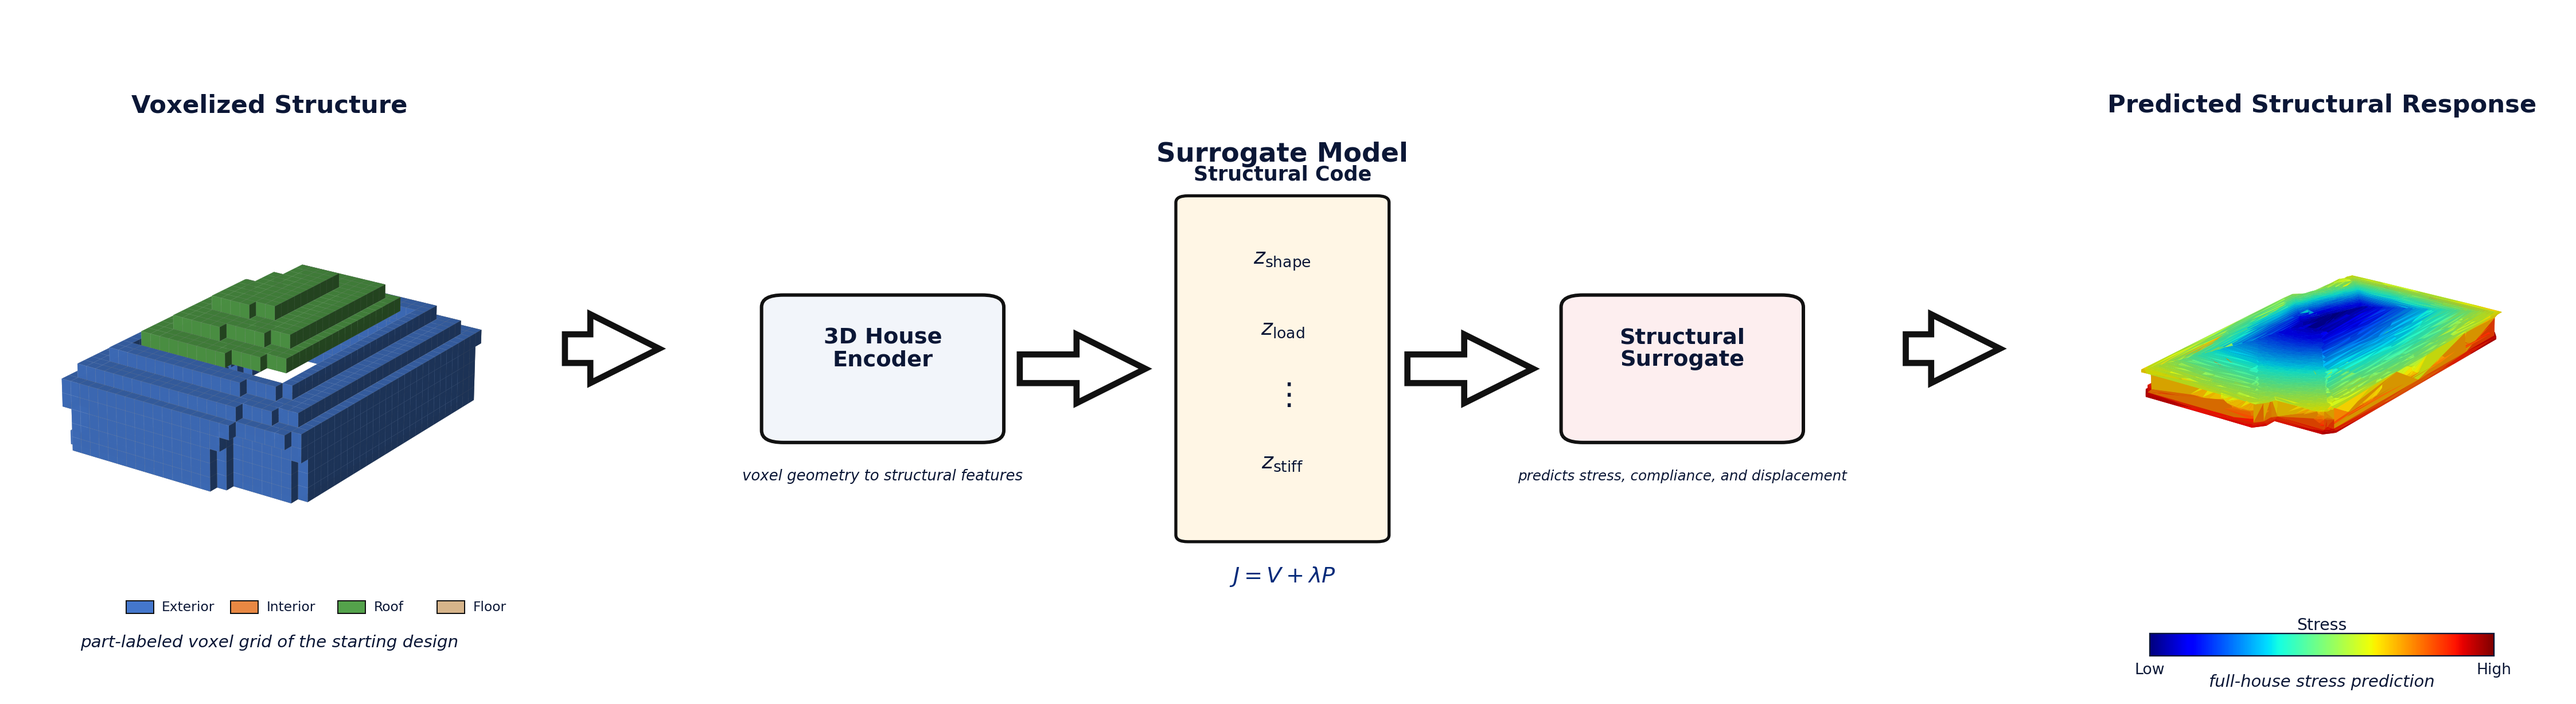
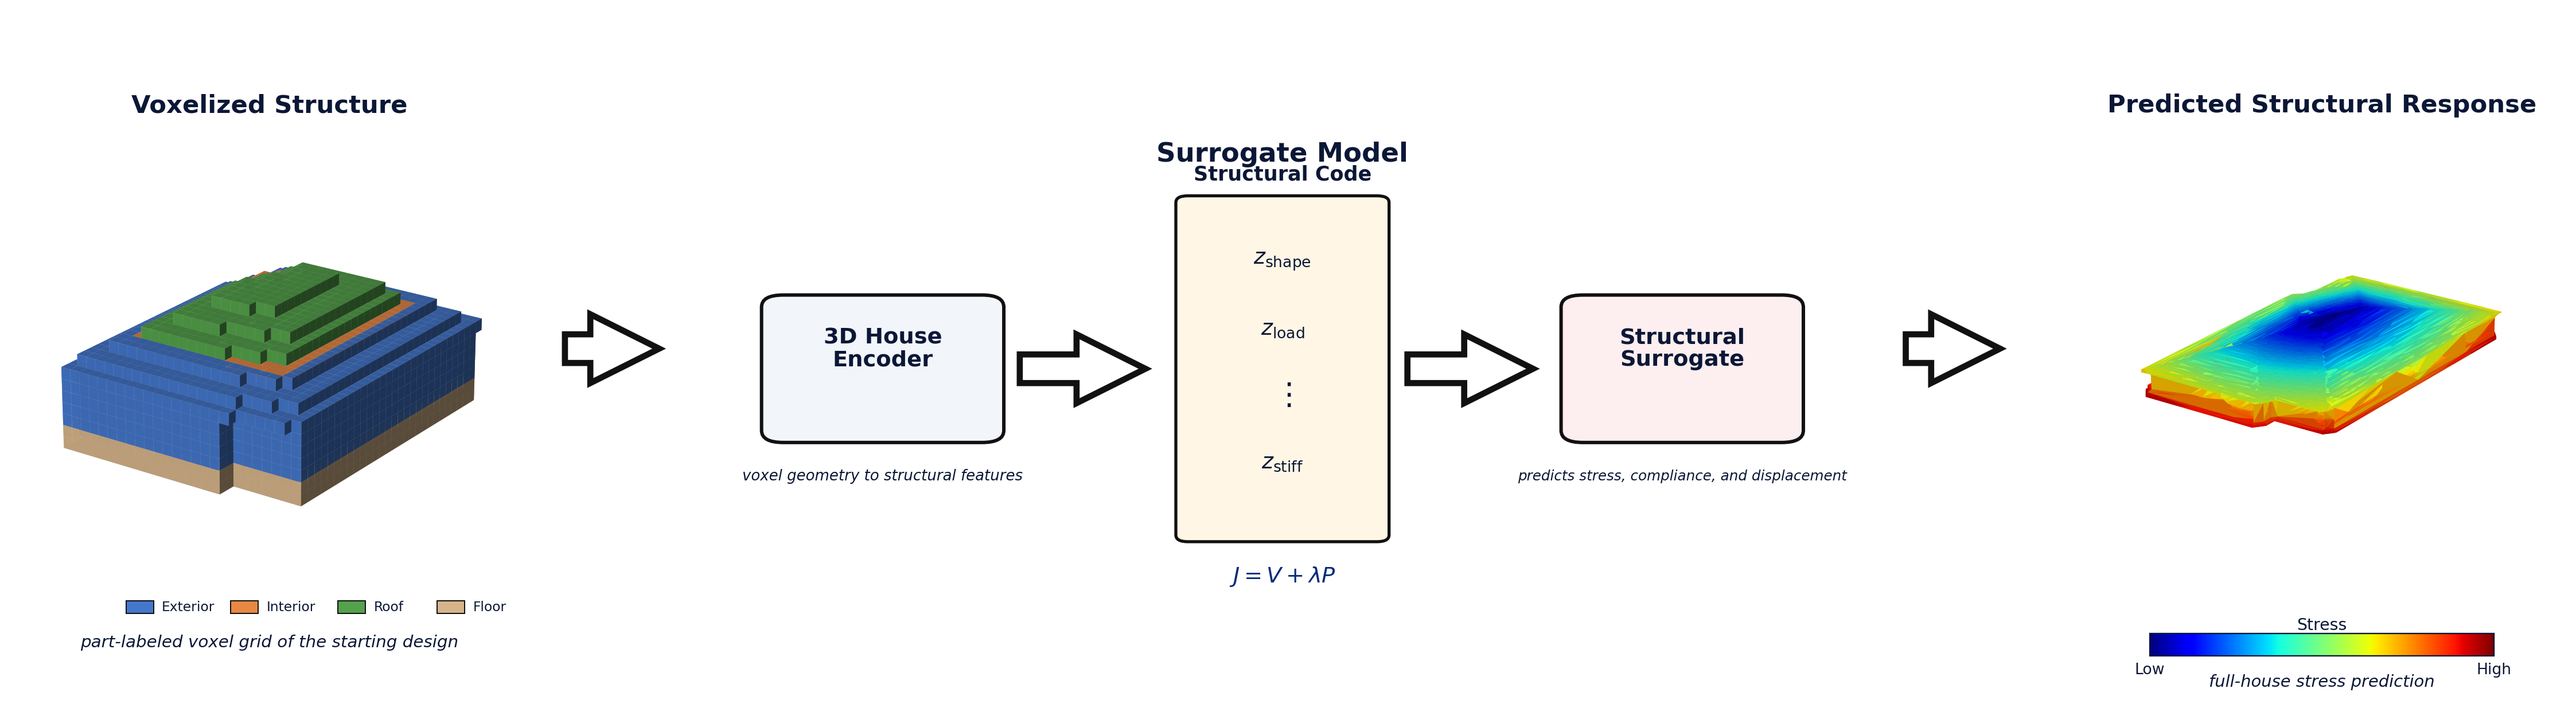
problem framing: fill voxel mass and unify arrows

Changed region(s): [[0.0, 0.4023, 0.187, 0.7117], [0.0623, 0.4023, 0.0935, 0.4642], [0.0935, 0.3713, 0.1247, 0.4023]]

diff --git a/generate_problem_framing.py b/generate_problem_framing.py
@@ -45,6 +45,15 @@ def render_voxelized_house(ax3d, mesh_path, pitch_div=28, elev=24, azim=-55):
         pass
     filled = np.asarray(vox.matrix, dtype=bool)
 
+    # Make the conceptual voxel thumbnail read as a solid house mass with no open shaft.
+    solid = filled.copy()
+    for ix in range(solid.shape[0]):
+        for iy in range(solid.shape[1]):
+            z_idx = np.flatnonzero(filled[ix, iy, :])
+            if z_idx.size:
+                solid[ix, iy, z_idx.min():z_idx.max() + 1] = True
+    filled = solid
+
     sx, sy, sz = filled.shape
     facecolors = np.zeros(filled.shape + (4,), dtype=float)
     edgecolors = np.zeros_like(facecolors)
@@ -72,8 +81,7 @@ def render_voxelized_house(ax3d, mesh_path, pitch_div=28, elev=24, azim=-55):
     exposed[:, :, 1:] |= filled[:, :, 1:] & ~filled[:, :, :-1]
     exposed[:, :, :-1] |= filled[:, :, :-1] & ~filled[:, :, 1:]
 
-    # Avoid seeing interior walls or floor slab through the shell in the conceptual thumbnail.
-    visible = exposed & ~interior_mask & ~slab_mask
+    visible = exposed
 
     def apply_color(mask, hex_color, alpha=0.98):
         rgb = mcolors.to_rgb(hex_color)
@@ -367,7 +375,14 @@ ax_mid.text(0.17, 0.50, "3D House\nEncoder",
 ax_mid.text(0.17, 0.31, "voxel geometry to structural features",
             ha="center", va="center", fontsize=7.8, color=DARK, fontstyle="italic")
 
-add_outline_arrow(ax_mid, (0.28, 0.47), (0.39, 0.47), transform=ax_mid.transAxes, scale=ARROW_SCALE, lw=ARROW_LW)
+add_outline_arrow(
+    fig,
+    (mid[0] + mid[2] * 0.28, mid[1] + mid[3] * 0.47),
+    (mid[0] + mid[2] * 0.39, mid[1] + mid[3] * 0.47),
+    transform=fig.transFigure,
+    scale=ARROW_SCALE,
+    lw=ARROW_LW,
+)
 
 vec_box = FancyBboxPatch((0.42, 0.22), 0.16, 0.50,
                          boxstyle="round,pad=0.008,rounding_size=0.010",
@@ -382,7 +397,14 @@ ax_mid.text(0.50, 0.33, r"$z_{\mathrm{stiff}}$", ha="center", va="center", fonts
 ax_mid.text(0.50, 0.16, r"$J = V + \lambda P$",
             ha="center", va="center", fontsize=11.5, color=NAVY, fontweight="bold")
 
-add_outline_arrow(ax_mid, (0.60, 0.47), (0.71, 0.47), transform=ax_mid.transAxes, scale=ARROW_SCALE, lw=ARROW_LW)
+add_outline_arrow(
+    fig,
+    (mid[0] + mid[2] * 0.60, mid[1] + mid[3] * 0.47),
+    (mid[0] + mid[2] * 0.71, mid[1] + mid[3] * 0.47),
+    transform=fig.transFigure,
+    scale=ARROW_SCALE,
+    lw=ARROW_LW,
+)
 
 dec_box = FancyBboxPatch((0.74, 0.37), 0.18, 0.20,
                          boxstyle="round,pad=0.010,rounding_size=0.018",
